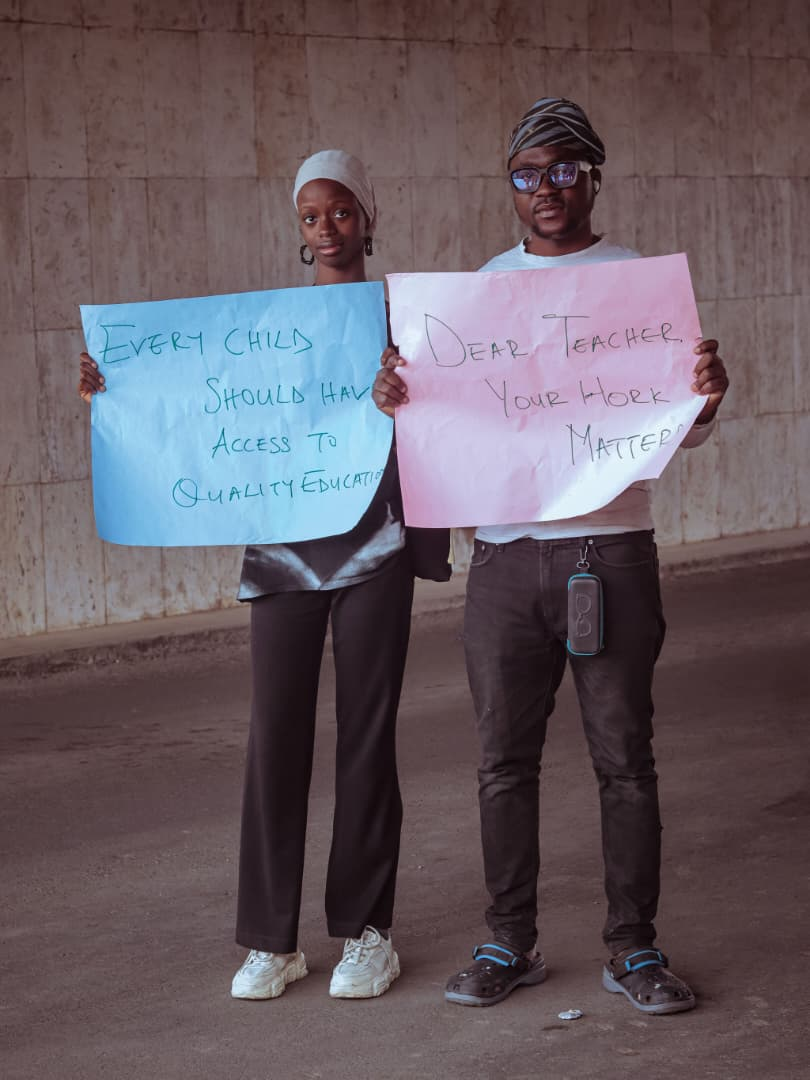
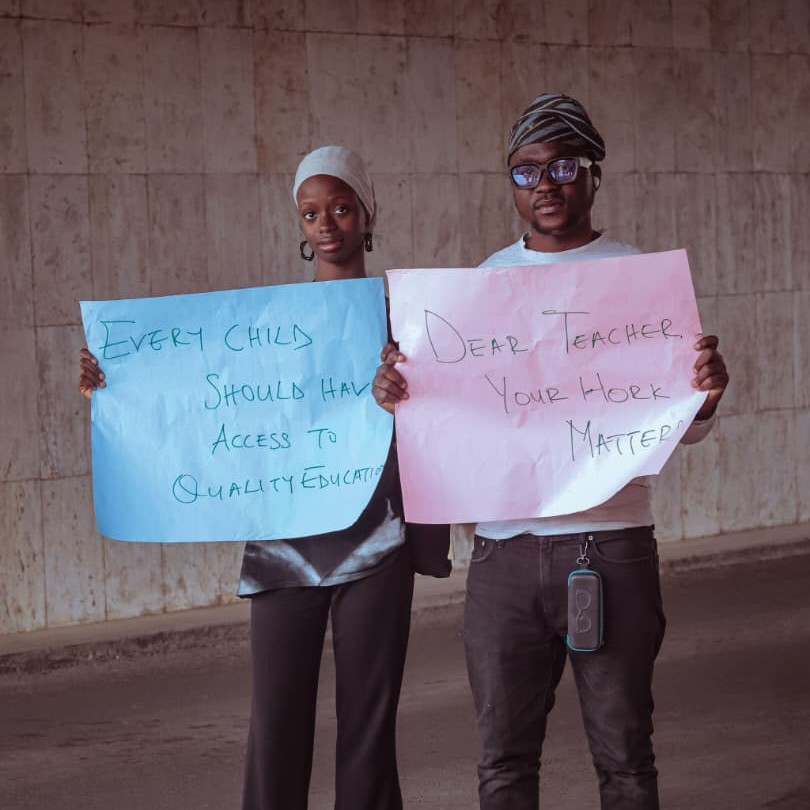
modified json names and step forward image size

diff --git a/programs.html b/programs.html
@@ -147,64 +147,64 @@
         {
           image: "https://placehold.co/500x400/8200db/ffffff?text=Program+1",
           alt: "Illumination Beyond Walls",
-          impactNumber: "IBW '26",
-          impactLabel: "Illumination Beyond Walls",
+          title: "IBW '26",
+          fulltitle: "Illumination Beyond Walls",
           summary: "is a youth empowerment initiative designed to equip Nigerian Jambites with mindset education and practical 21st-century skills. IBW helps students understand that they do not need to wait until university admission to begin building relevant skills, confidence, and career direction.",
           year: 2026,
         },
         {
           image: "img/photos-for-impact.jpeg",
           alt: "Photos for Impact",
-          impactNumber: "Photos for Impact",
-          impactLabel: "",
+          title: "Photos for Impact",
+          fulltitle: "",
           summary: "",
           year: 2026,
         },
         {
           image: "img/step-forward.jpeg",
           alt: "Step forward",
-          impactNumber: "Step Forward",
-          impactLabel: "",
+          title: "Step Forward",
+          fulltitle: "",
           summary: "was a project aimed at creating awareness and sensitising the masses, old and young about sound and quality education in and beyond the walls of a school, its long-term impact and why it can not be negotiated or downplayed",
           year: 2026,
         },
         {
           image: "img/twp-25.JPG",
           alt: "TWP '25",
-          impactNumber: "TWP '25",
-          impactLabel: "THE WATERCOLOR PROJECT 2025",
+          title: "TWP '25",
+          fulltitle: "THE WATERCOLOR PROJECT 2025",
           summary: "This project was aimed at equipping beneficiaries with 21st century skills while introducing them to digital skills. ",
           year: 2025,
         },
         {
           image: "img/ife-24.jpg",
           alt: "IFE '24",
-          impactNumber: "IFE '24",
-          impactLabel: "ILLUMINATION FOR EXCELLENCE 2024",
+          title: "IFE '24",
+          fulltitle: "ILLUMINATION FOR EXCELLENCE 2024",
           summary: "Illumination for Excellence was a seminar organized at the Odunlade Art Gallery to help the participants understand the importance of a university education and how to create their own success.",
           year: 2024,
         },
         {
           image: "https://placehold.co/500x400/8200db/ffffff?text=Program+5",
           alt: "IBW '23",
-          impactNumber: "IBW '23",
-          impactLabel: "ILLUMINATION BEYOND WALLS 2023",
+          title: "IBW '23",
+          fulltitle: "ILLUMINATION BEYOND WALLS 2023",
           summary: "Illumination Beyond Walls was organized to familiarize the young people at Fiditi with basic computer skills whilst preparing them for JAMB success through a JAMB CBT training. ",
           year: 2023,
         },
         {
           image: "img/b&n-23.JPG",
           alt: "Program 6",
-          impactNumber: "B&N '23",
-          impactLabel: "BLOSSOM AND NURTURE 2023",
+          title: "B&N '23",
+          fulltitle: "BLOSSOM AND NURTURE 2023",
           summary: "For this project, we spent every Saturday in April 2023 at the Satus Dignus Child Rescue Initiative with the Zahar Foundation, discussing crucial topics like: identity, career development, confidence, mental health, and self care with them.",
           year: 2023,
         },
         {
           image: "img/twp-22.jpg",
           alt: "TWP '22",
-          impactNumber: "TWP '22",
-          impactLabel: "people impacted",
+          title: "TWP '22",
+          fulltitle: "The Watercolor Project 2023",
           summary: "The Watercolor Project 2022 was aimed at introducing public secondary school students in Ibadan to digital skills: content creation, digital marketing, and creative writing. ",
           year: 2022,
         },
@@ -217,12 +217,12 @@
           <div class="program-image-wrap">
             <img src="${program.image}" alt="${program.alt}" />
             <div class="program-stat">
-              <p class="program-stat-number">${program.impactNumber}</p>
-              <p class="program-stat-label">${program.impactLabel}</p>
+              <p class="program-stat-number">${program.title}</p>
+              <p class="program-stat-label">${program.fulltitle}</p>
             </div>
             <div class="program-overlay">
-              <p class="program-stat-number">${program.impactNumber}</p>
-              <p class="program-stat-label">${program.impactLabel}</p>
+              <p class="program-stat-number">${program.title}</p>
+              <p class="program-stat-label">${program.fulltitle}</p>
               <p class="program-overlay-text">${program.summary}</p>
             </div>
           </div>
